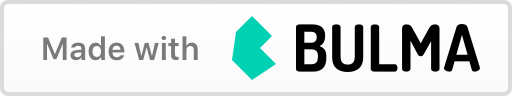
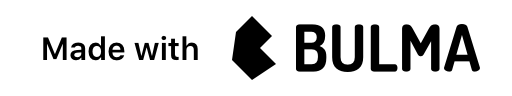
improved footer and breadcrumb position

Changed region(s): [[0.0, 0.0, 1.0, 1.0], [0.0625, 0.375, 0.4062, 0.625], [0.4375, 0.1562, 0.5625, 0.8438]]

diff --git a/sphinx_bulma_theme/components/breadcrumbs.html b/sphinx_bulma_theme/components/breadcrumbs.html
@@ -23,10 +23,10 @@
 {% if check_meta and 'gitlab_url' in meta %}
     {% set display_gitlab = True %}
 {% endif %}
-<nav class="breadcrumb is-centered columns" aria-label="breadcrumbs" style="margin-top:22px">
+<nav id="sphinx-bulma-breadcrumbs-top" class="breadcrumb is-centered columns" aria-label="breadcrumbs">
     <ul class="column">
         {% block breadcrumbs %}
-            <li><a href="{{ pathto(master_doc) }}">{{ _('Docs') }}</a></li>
+      <li>&nbsp;<a href="{{ pathto(master_doc) }}">{{ _('Docs') }}</a>&nbsp;</li>
             {% for doc in parents %}
                 <li>&nbsp;<a href="{{ doc.link|e }}">{{ doc.title }}</a>&nbsp;</li>
             {% endfor %}
@@ -35,48 +35,72 @@
     </ul>
     <ul class="column">
         {% block breadcrumbs_aside %}
-            <li>
-                {% if pagename != "search" %}
-                    {% if display_github %}
+
+            {% if next %}
+                <li>
+                    &nbsp;
+                    <a href="{{ next.link|e }}" class="btn btn-neutral float-right" title="{{ next.title|striptags|e }}" accesskey="n" rel="next">{{ _('Next') }} <span class="fa fa-arrow-circle-right"></span></a>
+                    &nbsp;
+                </li>
+            {% endif %}
+            {% if prev %}
+                <li>
+                    &nbsp;
+                    <a href="{{ prev.link|e }}" class="btn btn-neutral" title="{{ prev.title|striptags|e }}" accesskey="p" rel="prev"><span class="fa fa-arrow-circle-left"></span> {{ _('Previous') }}</a>
+                    &nbsp;
+                </li>
+            {% endif %}
+
+            {% if pagename != "search" %}
+                {% if display_github %}
+                    <li>
+                        &nbsp;
                         {% if check_meta and 'github_url' in meta %}
                             <!-- User defined GitHub URL -->
                             <a href="{{ meta['github_url'] }}" class="fa fa-github"> {{ _('Edit on GitHub') }}</a>
                         {% else %}
                             <a href="https://{{ github_host|default("github.com") }}/{{ github_user }}/{{ github_repo }}/blob/{{ github_version }}{{ conf_py_path }}{{ pagename }}{{ suffix }}" class="fa fa-github"> {{ _('Edit on GitHub') }}</a>
                         {% endif %}
-                    {% elif display_bitbucket %}
+                        &nbsp;
+                    </li>
+                {% elif display_bitbucket %}
+                    <li>
+                        &nbsp;
                         {% if check_meta and 'bitbucket_url' in meta %}
                             <!-- User defined Bitbucket URL -->
                             <a href="{{ meta['bitbucket_url'] }}" class="fa fa-bitbucket"> {{ _('Edit on Bitbucket') }}</a>
                         {% else %}
                             <a href="https://bitbucket.org/{{ bitbucket_user }}/{{ bitbucket_repo }}/src/{{ bitbucket_version}}{{ conf_py_path }}{{ pagename }}{{ suffix }}" class="fa fa-bitbucket"> {{ _('Edit on Bitbucket') }}</a>
                         {% endif %}
-                    {% elif display_gitlab %}
+                        &nbsp;
+                    </li>
+                {% elif display_gitlab %}
+                    <li>
+                        &nbsp;
                         {% if check_meta and 'gitlab_url' in meta %}
                             <!-- User defined GitLab URL -->
                             <a href="{{ meta['gitlab_url'] }}" class="fa fa-gitlab"> {{ _('Edit on GitLab') }}</a>
                         {% else %}
                             <a href="https://{{ gitlab_host|default("gitlab.com") }}/{{ gitlab_user }}/{{ gitlab_repo }}/blob/{{ gitlab_version }}{{ conf_py_path }}{{ pagename }}{{ suffix }}" class="fa fa-gitlab"> {{ _('Edit on GitLab') }}</a>
                         {% endif %}
-                    {% elif show_source and source_url_prefix %}
+                        &nbsp;
+                    </li>
+                {% elif show_source and source_url_prefix %}
+                    <li>
+                        &nbsp;
                         <a class="has-text-grey" href="{{ source_url_prefix }}{{ pagename }}{{ suffix }}">{{ _('View page source') }}</a>
-                    {% elif show_source and has_source and sourcename %}
+                        &nbsp;
+                    </li>
+                {% elif show_source and has_source and sourcename %}
+                    <li>
+                        &nbsp;
                         <a href="{{ pathto('_sources/' + sourcename, true)|e }}" rel="nofollow"> {{ _('View page source') }}</a>
-                    {% endif %}
+                        &nbsp;
+                    </li>
                 {% endif %}
-            </li>
-        {% endblock %}
+            {% endif %}
 
-    </ul>
-    {% if (theme_prev_next_buttons_location == 'top' or theme_prev_next_buttons_location == 'both') and (next or prev) %}
-        <div class="rst-breadcrumbs-buttons" role="navigation" aria-label="breadcrumb navigation">
-            {% if next %}
-                <a href="{{ next.link|e }}" class="btn btn-neutral float-right" title="{{ next.title|striptags|e }}" accesskey="n">Next <span class="fa fa-arrow-circle-right"></span></a>
-            {% endif %}
-            {% if prev %}
-                <a href="{{ prev.link|e }}" class="btn btn-neutral" title="{{ prev.title|striptags|e }}" accesskey="p"><span class="fa fa-arrow-circle-left"></span> Previous</a>
-            {% endif %}
-        </div>
-    {% endif %}
-    <hr/>
+        {% endblock %}
+</ul>
+<hr/>
 </nav>

diff --git a/sphinx_bulma_theme/components/footer.html b/sphinx_bulma_theme/components/footer.html
@@ -1,55 +1,47 @@
 <footer class="footer">
     <div class="container">
         <div class="content has-text-centered">
-            {% if (theme_prev_next_buttons_location == 'bottom' or theme_prev_next_buttons_location == 'both') and (next or prev) %}
-                <div class="rst-footer-buttons" role="navigation" aria-label="footer navigation">
-                    {% if next %}
-                        <a href="{{ next.link|e }}" class="btn btn-neutral float-right" title="{{ next.title|striptags|e }}" accesskey="n" rel="next">{{ _('Next') }} <span class="fa fa-arrow-circle-right"></span></a>
-                    {% endif %}
-                    {% if prev %}
-                        <a href="{{ prev.link|e }}" class="btn btn-neutral" title="{{ prev.title|striptags|e }}" accesskey="p" rel="prev"><span class="fa fa-arrow-circle-left"></span> {{ _('Previous') }}</a>
-                    {% endif %}
-                </div>
-            {% endif %}
-
-            <hr/>
-
-            <div role="contentinfo">
-                <p>
-                    {%- if show_copyright %}
-                        {%- if hasdoc('copyright') %}
-                            {% trans path=pathto('copyright'), copyright=copyright|e %}&copy; <a href="{{ path }}">Copyright</a> {{ copyright }}.{% endtrans %}
-                        {%- else %}
-                            {% trans copyright=copyright|e %}&copy; Copyright {{ copyright }}.{% endtrans %}
+            {%- block footer %}
+                <hr/>
+                <div role="contentinfo">
+                    <p>
+                        {%- if show_copyright %}
+                            {%- if hasdoc('copyright') %}
+                                {% trans path=pathto('copyright'), copyright=copyright|e %}&copy; <a href="{{ path }}">Copyright</a> {{ copyright }}.{% endtrans %}
+                            {%- else %}
+                                {% trans copyright=copyright|e %}&copy; Copyright {{ copyright }}.{% endtrans %}
+                            {%- endif %}
                         {%- endif %}
-                    {%- endif %}
-
-                    {%- if build_id and build_url %}
-                        {% trans build_url=build_url, build_id=build_id %}
-                            <span class="build">
-                                Build
-                                <a href="{{ build_url }}">{{ build_id }}</a>.
-                            </span>
-                        {% endtrans %}
-                    {%- elif commit %}
-                        {% trans commit=commit %}
-                            <span class="commit">
-                                Revision <code>{{ commit }}</code>.
-                            </span>
-                        {% endtrans %}
-                    {%- elif last_updated %}
-                        {% trans last_updated=last_updated|e %}Last updated on {{ last_updated }}.{% endtrans %}
-                    {%- endif %}
-
-                </p>
-            </div>
-
-            {%- if show_sphinx %}
-                {% trans %}Built with <a href="http://sphinx-doc.org/">Sphinx</a> using a <a href="https://github.com/snide/sphinx_bulma_theme">theme</a> provided by <a href="https://readthedocs.org">Read the Docs</a>{% endtrans %}.
-            {%- endif %}
-
-            {%- block extrafooter %} {% endblock %}
-
+                        {%- if build_id and build_url %}
+                            {% trans build_url=build_url, build_id=build_id %}
+                                <span class="build">
+                                    Build
+                                    <a href="{{ build_url }}">{{ build_id }}</a>.
+                                </span>
+                            {% endtrans %}
+                        {%- elif commit %}
+                            {% trans commit=commit %}
+                                <span class="commit">
+                                    Revision <code>{{ commit }}</code>.
+                                </span>
+                            {% endtrans %}
+                        {%- elif last_updated %}
+                            {% trans last_updated=last_updated|e %}Last updated on {{ last_updated }}.{% endtrans %}
+                        {%- endif %}
+                    </p>
+                </div>
+                {%- if show_sphinx %}
+                {% trans %}Built with <a href="http://sphinx-doc.org/">Sphinx</a> using a <a href="https://pypi.org/project/sphinx-bulma-theme/">theme</a> by <a href="https://github.com/gabrielfalcao">Gabriel Falc&atilde;o</a>{% endtrans %}.
+                <center>
+                {% if theme_dark_background %}
+                  <img class="image" width="96" src="{{ pathto('_static/images/made-with-bulma-dark.png', 1) }}" />
+                {% else %}
+                  <img class="image" width="96" src="{{ pathto('_static/images/made-with-bulma.png', 1) }}" />
+                {% endif %}
+                </center>
+                {%- endif %}
+                {%- block extrafooter %} {% endblock %}
         </div>
+    {% endblock %}
     </div>
 </footer>

diff --git a/sphinx_bulma_theme/body.html b/sphinx_bulma_theme/body.html
@@ -6,9 +6,9 @@
 
 {% if not theme_content_padding_top %}
     {% if not theme_breadcrumbs_at_top and not show_topbar %}
-        {%- set content_padding_top = '32px' %}
+        {%- set content_padding_top = '1rem' %}
     {% else %}
-        {%- set content_padding_top = '0px' %}
+        {%- set content_padding_top = '2rem' %}
     {% endif %}
 {% else %}
     {%- set content_padding_top = theme_content_padding_top %}
@@ -16,9 +16,9 @@
 
 {% if not theme_content_margin_left %}
     {% if theme_sidebar_right %}
-        {%- set content_margin_left = '32px' %}
+        {%- set content_margin_left = '1rem' %}
     {% else %}
-        {%- set content_margin_left = '16px' %}
+        {%- set content_margin_left = '0.5rem' %}
     {% endif %}
 {% else %}
     {%- set content_margin_left = theme_content_margin_left %}
@@ -26,9 +26,9 @@
 
 {% if not theme_content_padding_left %}
     {% if theme_sidebar_right %}
-        {%- set content_padding_left = '32px' %}
+        {%- set content_padding_left = '1rem' %}
     {% else %}
-        {%- set content_padding_left = '16px' %}
+        {%- set content_padding_left = '0.5rem' %}
     {% endif %}
 {% else %}
     {%- set content_padding_left = theme_content_padding_left %}
@@ -93,6 +93,4 @@
    {% endif %}
  });
 </script>
-
-
-{%- block footer %} {% endblock %}
+{% include "components/footer.html" %}

diff --git a/sphinx_bulma_theme/static/css/theme.css b/sphinx_bulma_theme/static/css/theme.css
@@ -6470,6 +6470,17 @@ label.panel-block {
       line-height: 0; }
 
 /* Adjust text spacing in toctree page */
+#indices-and-tables ul {
+  list-style: none; }
+  #indices-and-tables ul li {
+    line-height: 1.5rem; }
+    #indices-and-tables ul li ul {
+      list-style: none;
+      margin-top: 0;
+      margin-left: 1rem; }
+      #indices-and-tables ul li ul li {
+        line-height: 1.5rem; }
+
 .toctree-wrapper ul {
   list-style: none; }
   .toctree-wrapper ul li {
@@ -6498,7 +6509,7 @@ label.panel-block {
     padding: 0.5rem 0 3rem 0; }
 
 .breadcrumb li {
-  padding: 0 1rem; }
+  padding: 0; }
   .breadcrumb li a {
     padding: 0; }
 
@@ -6533,3 +6544,6 @@ a code {
   top: 32px;
   position: -webkit-sticky;
   position: sticky; }
+
+#sphinx-bulma-breadcrumbs-top {
+  margin: 0.5rem 0 0 0; }

diff --git a/sphinx_bulma_theme/sphinx-bulma.src.sass b/sphinx_bulma_theme/sphinx-bulma.src.sass
@@ -60,6 +60,19 @@ $code-family: "Inconsolata"
 
 
 /* Adjust text spacing in toctree page
+
+#indices-and-tables
+  ul
+    list-style: none
+    li
+      line-height: 1.5rem
+      ul
+        list-style: none
+        margin-top: 0
+        margin-left: 1rem
+        li
+          line-height: 1.5rem
+
 .toctree-wrapper
   ul
     list-style: none
@@ -94,7 +107,7 @@ $code-family: "Inconsolata"
 
 .breadcrumb
   li
-    padding: 0 1rem
+    padding: 0
     a
       padding: 0
 
@@ -133,3 +146,7 @@ a
   top: 32px
   position: -webkit-sticky
   position: sticky
+
+
+#sphinx-bulma-breadcrumbs-top
+  margin: 0.5rem 0 0 0

diff --git a/docs/source/conf.py b/docs/source/conf.py
@@ -50,7 +50,7 @@ html_theme_options = {
     'logo_only': False,
     'navigation_depth': 4,
     'prev_next_buttons_location': 'bottom',
-    'show_topbar': False,
+    'show_topbar': True,
     'sidebar_class': 'has-text-dark',
     'sidebar_container_class': 'is-3',
     'sidebar_right': None,
